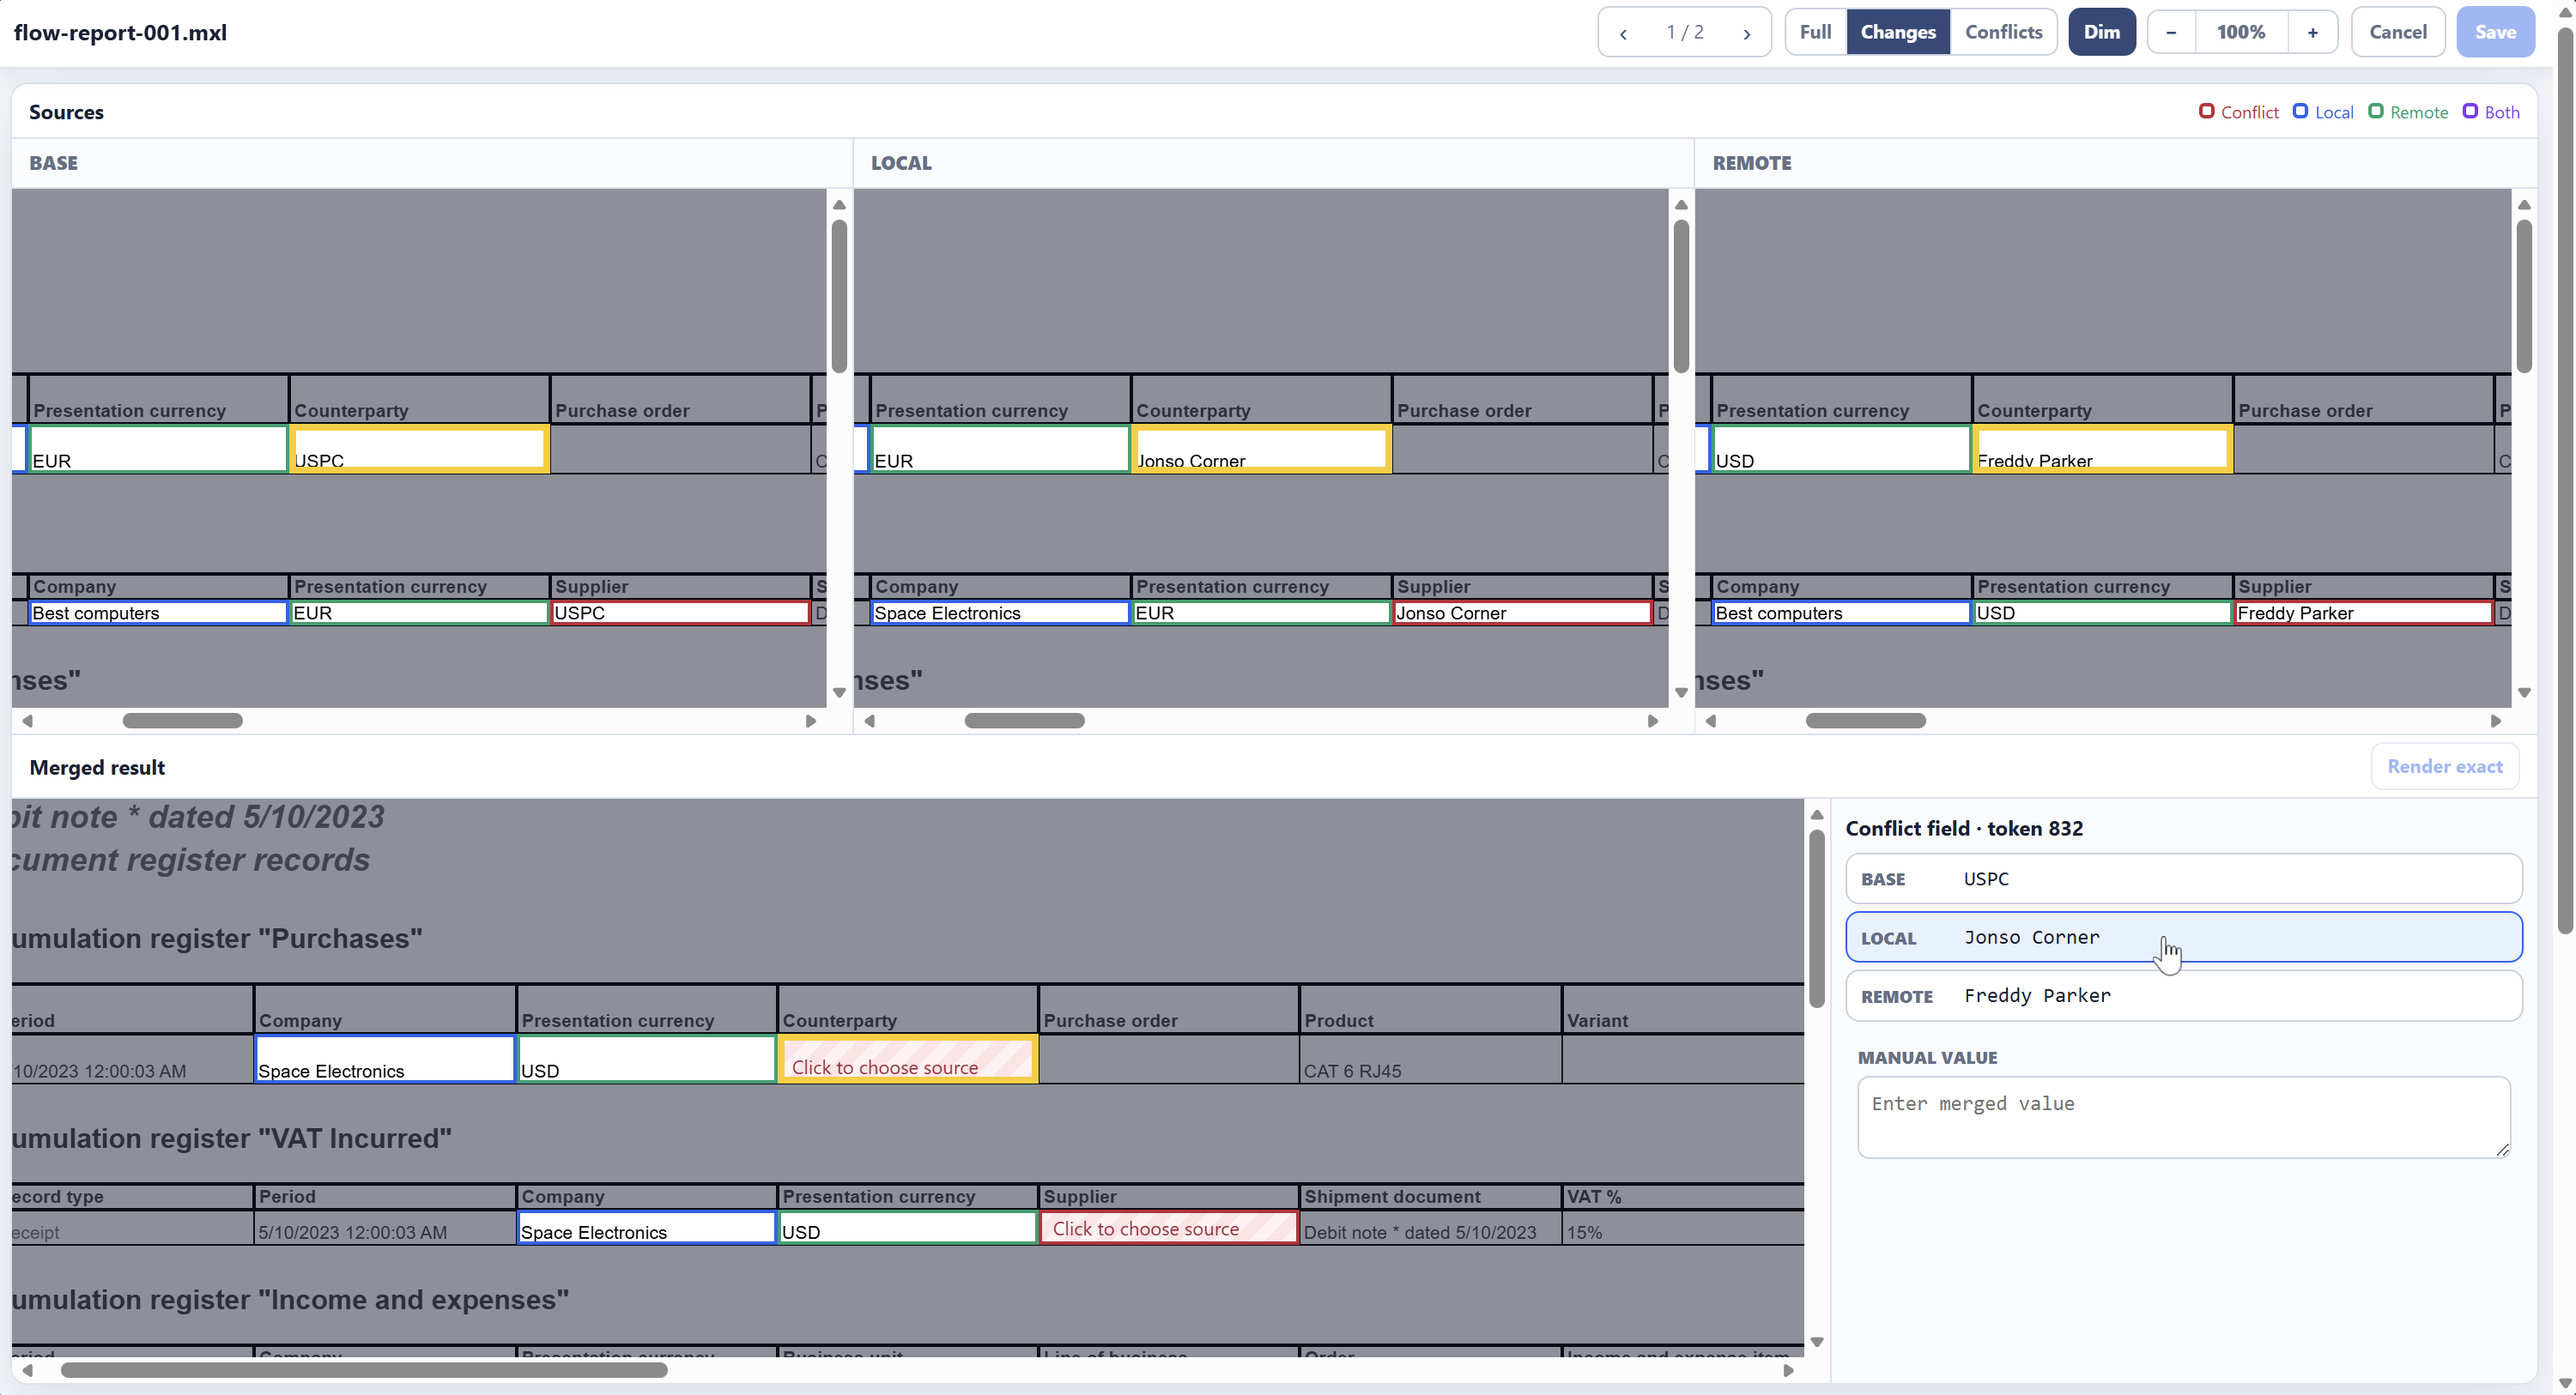
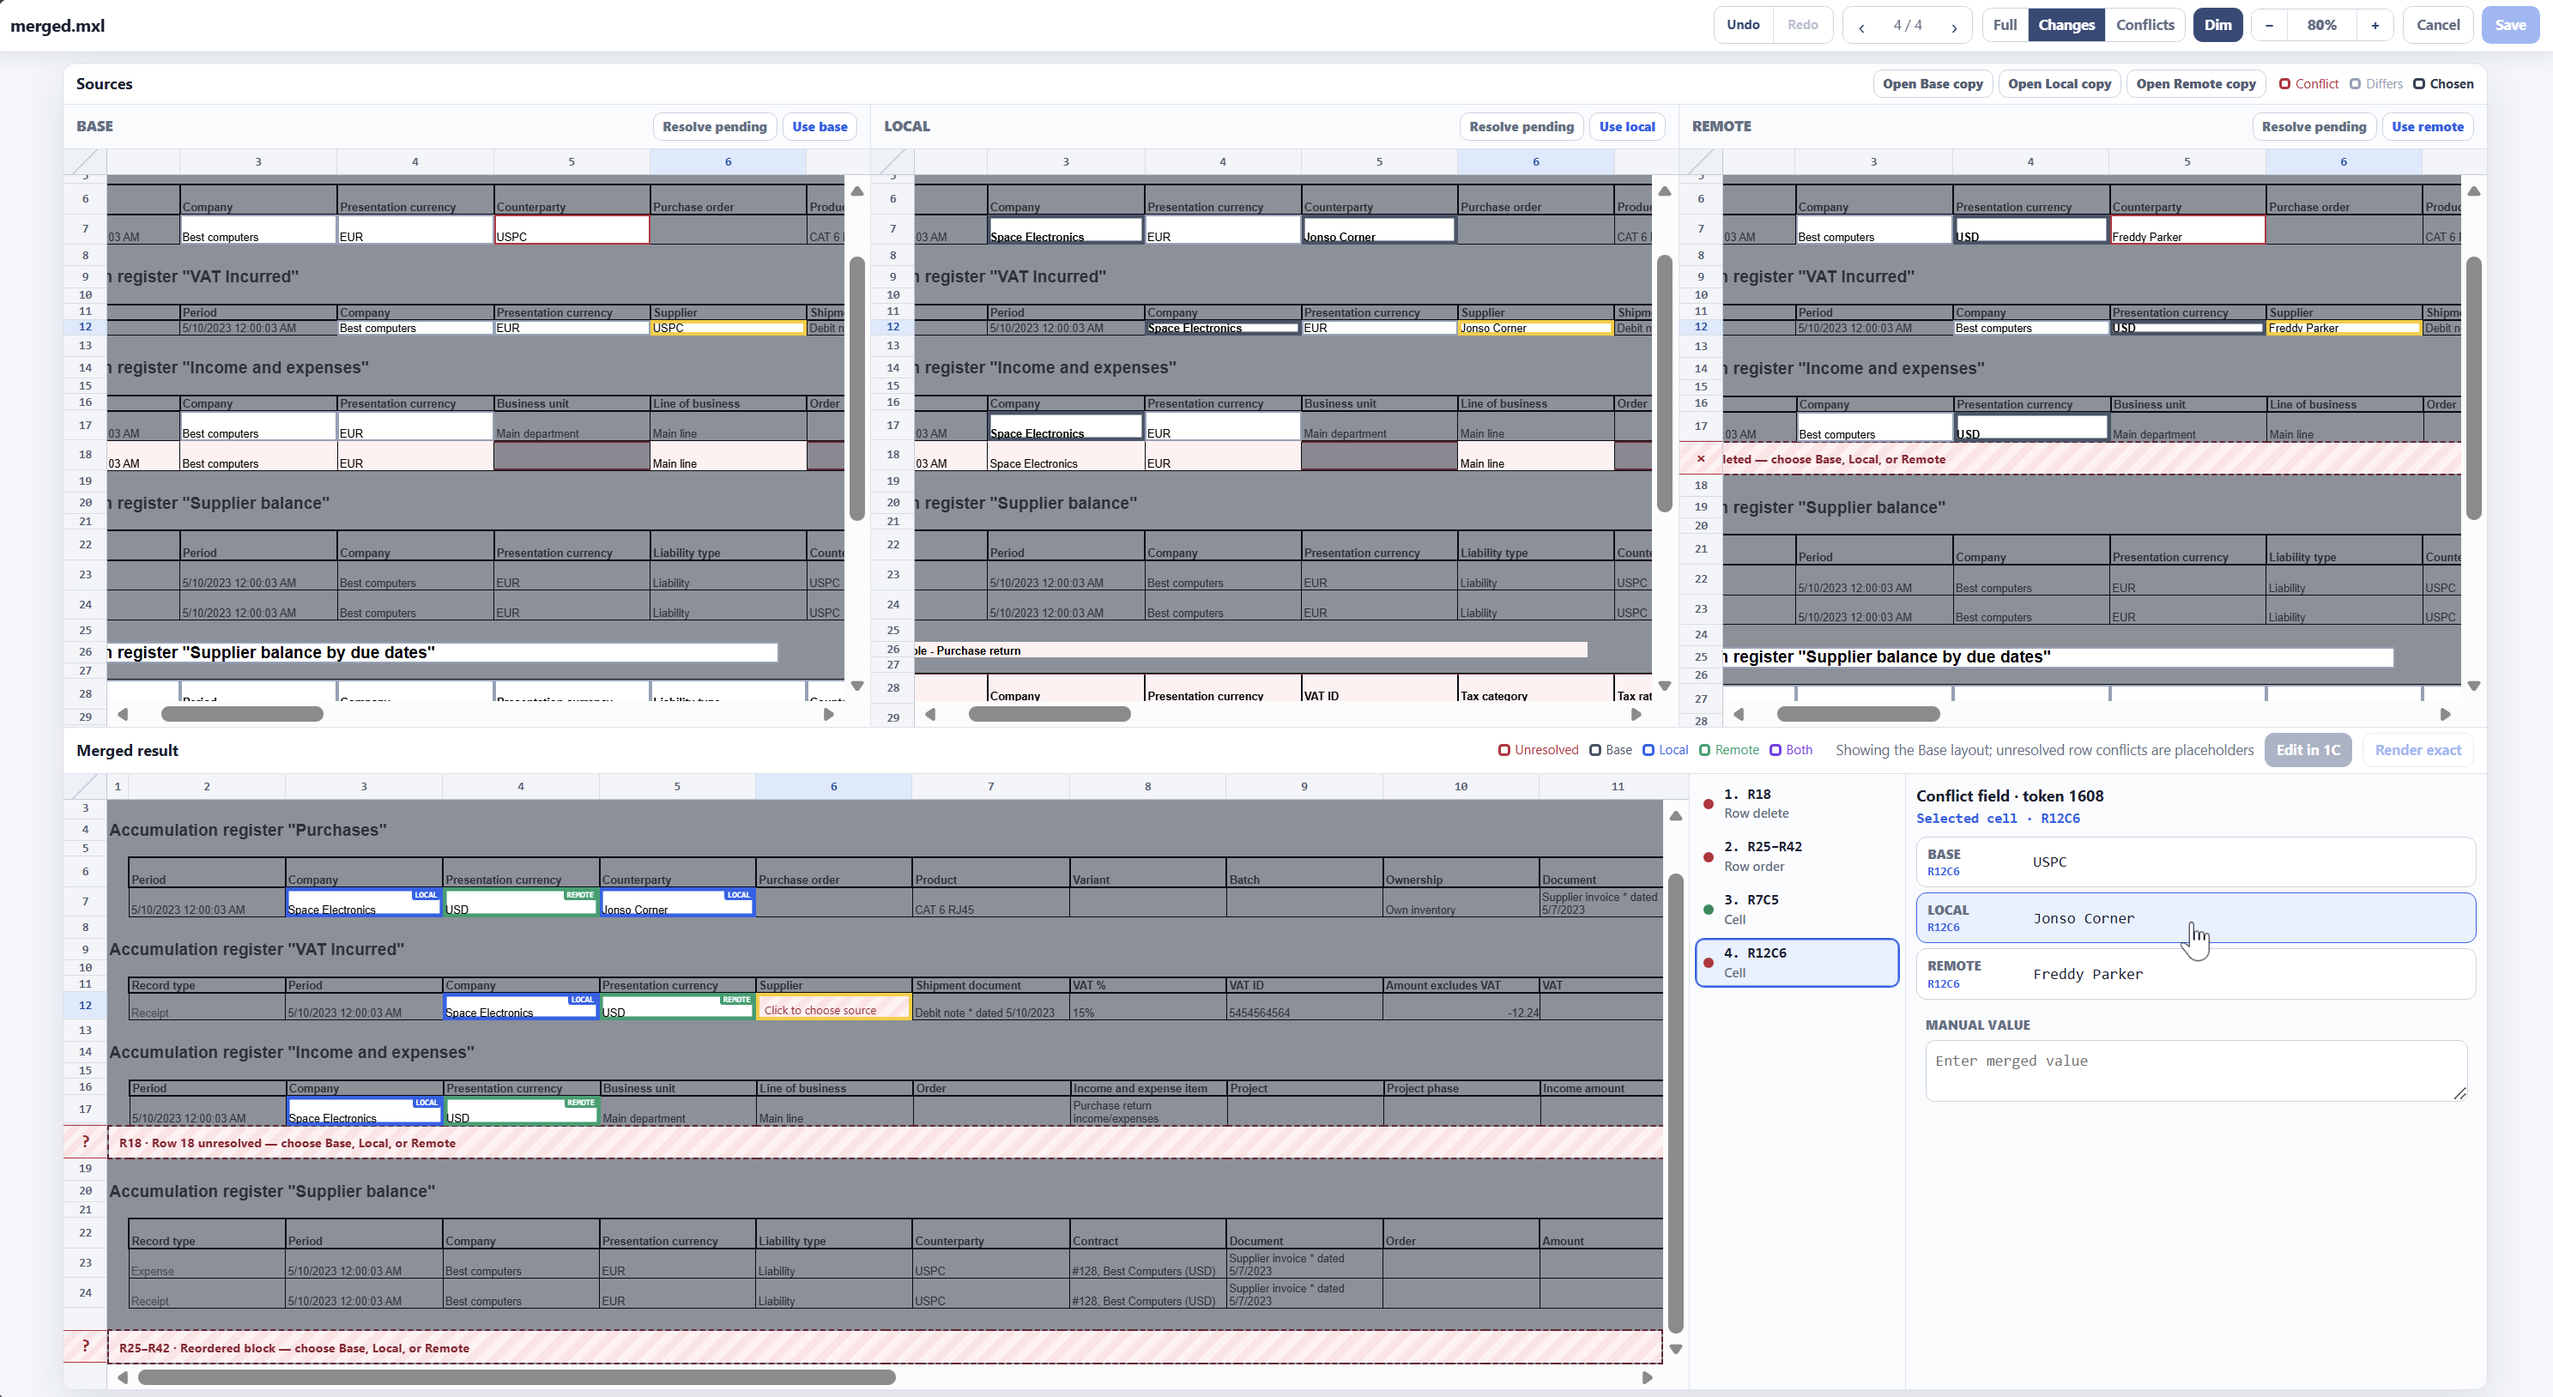
update readme

diff --git a/README.md b/README.md
@@ -52,8 +52,8 @@
 - Git;
 - Python 3.10 или новее;
 - современный браузер;
-- Windows и 1С:Предприятие — для точного HTML-предпросмотра и внешнего
-  редактирования MXL.
+- 1С:Предприятие — для точного HTML-предпросмотра
+- 1С:Предприятие — Работа с файлами для внешнего редактирования MXL.
 
 ## Установка
 
